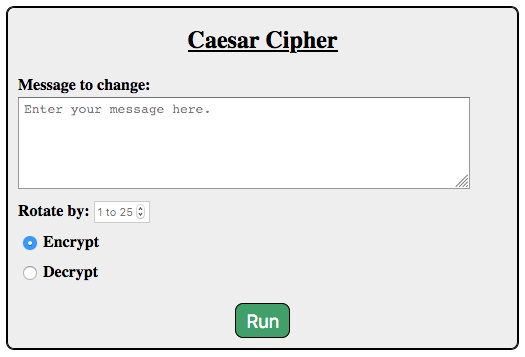
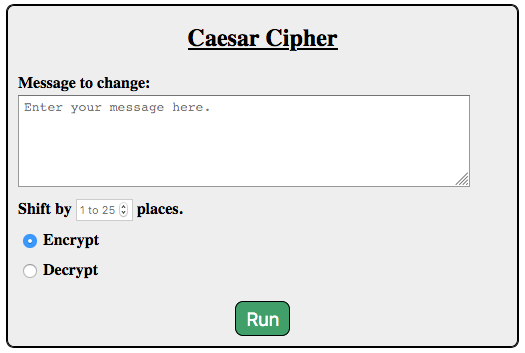
Finished draft for the forms project page.

diff --git a/src/chapters/forms/project.rst b/src/chapters/forms/project.rst
@@ -64,8 +64,13 @@ Getting Started
    from different locations or devices. It would be a good idea to add a
    :ref:`remote repository <git-project>` on GitHub to help track your work.
 
-Create the Message Input
-------------------------
+Collect a Message From the User
+-------------------------------
+
+The `Caesar Cipher <coded-messages>`__ codes a message by shifting each letter
+a certain number of places in the alphabet. In your old assignment 2 Python
+code, you used the console to collect input from the user. In this updated
+project, you will use a web form to gather the same information.
 
 #. Create a new ``form`` element in your HTML file. For now, assign the URL for
    the parrot server to ``action``.
@@ -76,32 +81,73 @@ Create the Message Input
 
 #. Add a heading inside the form.
 #. Add a ``textarea`` element where the user will enter their original message.
-   Be sure to give this input a ``label``.
+   Be sure to give this input a ``label``. Also, add some placeholder text.
 #. Add a *Submit* button to the form. However, label it something more clever
    than *Submit*.
 #. Save your code, then open the ``.html`` file in your browser. Test your form
-   to make sure that it works.
+   to make sure it works.
 
-   .. figure:: figures/boilerplate-html.gif
-      :alt: Typing html:5 in VS Code automatically adds boilerplate HTML.
+   .. figure:: figures/textarea-input.png
+      :alt: Showing a label and textarea input, followed by the response.
+      :width: 70%
 
-      OK, that's really cool.
+      Check that the form sends a key/value pair for the ``textarea`` input.
 
-#. Commit your work to the repo before moving to the next section.
+#. Commit your work before moving to the next section.
 
 Add Number and Radio Inputs
 ---------------------------
 
-Lorem ipsum...
+Now that you have the ``textarea`` element working, you need to gather the rest
+of the required information.
+
+#. Below the ``textarea``, add an ``input`` element that accepts an integer.
+   The user will use this field to set how many places to shift each letter in
+   the original message.
+#. Use the ``max`` and ``min`` attributes to add validation to the field.
+   Allowed values for this input run from ``1`` to ``25``.
+#. Add placeholder text to this input to tell the user the allowed range.
+#. Below the number field, use radio buttons to let the user select if the
+   message should be encrypted or decrypted. Use the ``checked`` attribute to
+   select one of the choices as the default.
+#. Save your code, then refresh the page in your browser. Test the form to make
+   sure it sends three key/value pairs to the server.
+
+   .. figure:: figures/parrot-project-response.png
+      :alt: Request Parrot response to sending 3 input values from the form.
+
+      The form sends key/value pairs for the message, shift value, and whether to encrypt or translate the message.
+
+#. Commit your work before moving to the next section.
 
 Style the Form
 --------------
 
-Lorem ipsum...
+Now you need to make your form look nice.
+
+#. Open the empty ``.css`` file. Add style rules for the form, input fields,
+   and submit button.
+#. Center the form on the page. By default, the browser displays it on the left
+   side of the screen. Here's one way to change this:
+
+   a. In the CSS file, define a new class called ``centered``. Inside this
+      class, add the rule ``text-align: center;``.
+   b. Wrap the ``form`` element between ``<section>`` tags.
+   c. Add the ``class="centered"`` attribute to the ``<section>`` tag.
+   d. Back in the CSS file, add ``display: inline-block;`` to the ``form``
+      selector.
+
+#. Save your CSS code, then refresh the page in the browser. Properly done,
+   your form should now be horizontally centered on the screen. Try changing
+   the ``text-align`` value to ``left`` or ``right`` to see how this affects
+   the view.
+#. Commit your work. If you created a remote repository, don't forget to
+   ``push`` the changes up to GitHub.
 
 Coming Up Next
 --------------
 
 In Part 2 of this project, you will write some Python code that will collect
-the form data, use it to select the proper search engine, and then run the
-search request with that engine.
+the form data and then update the page to show the coded or translated message.
+
+.. todo:: Insert internal link to the Part 2 project page.
